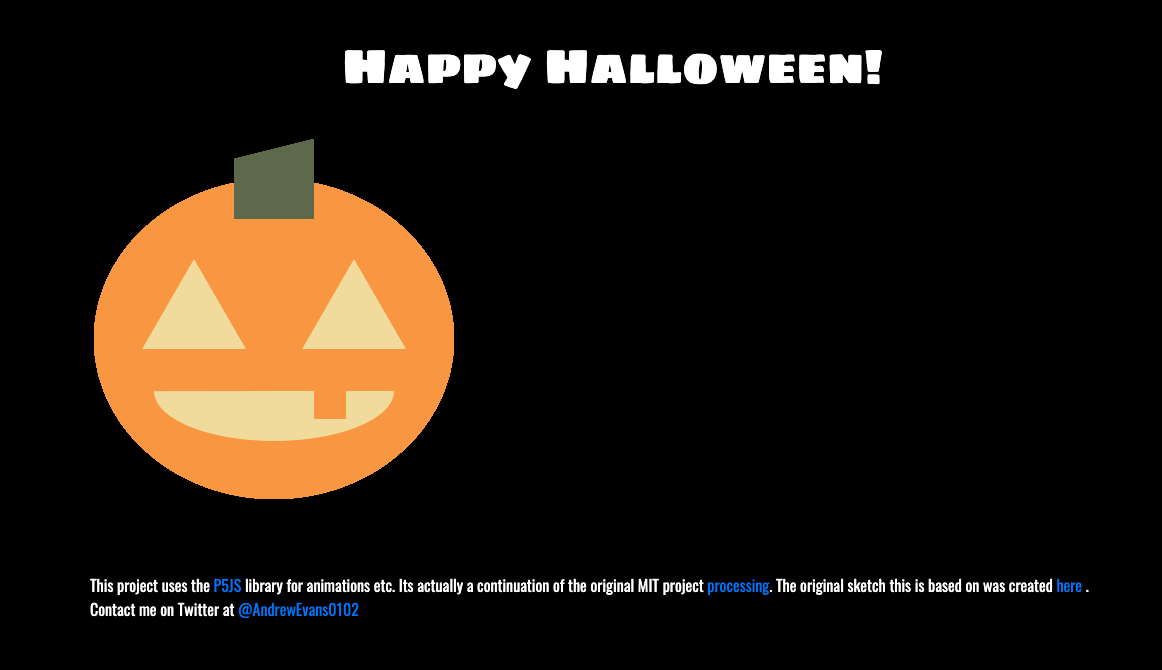
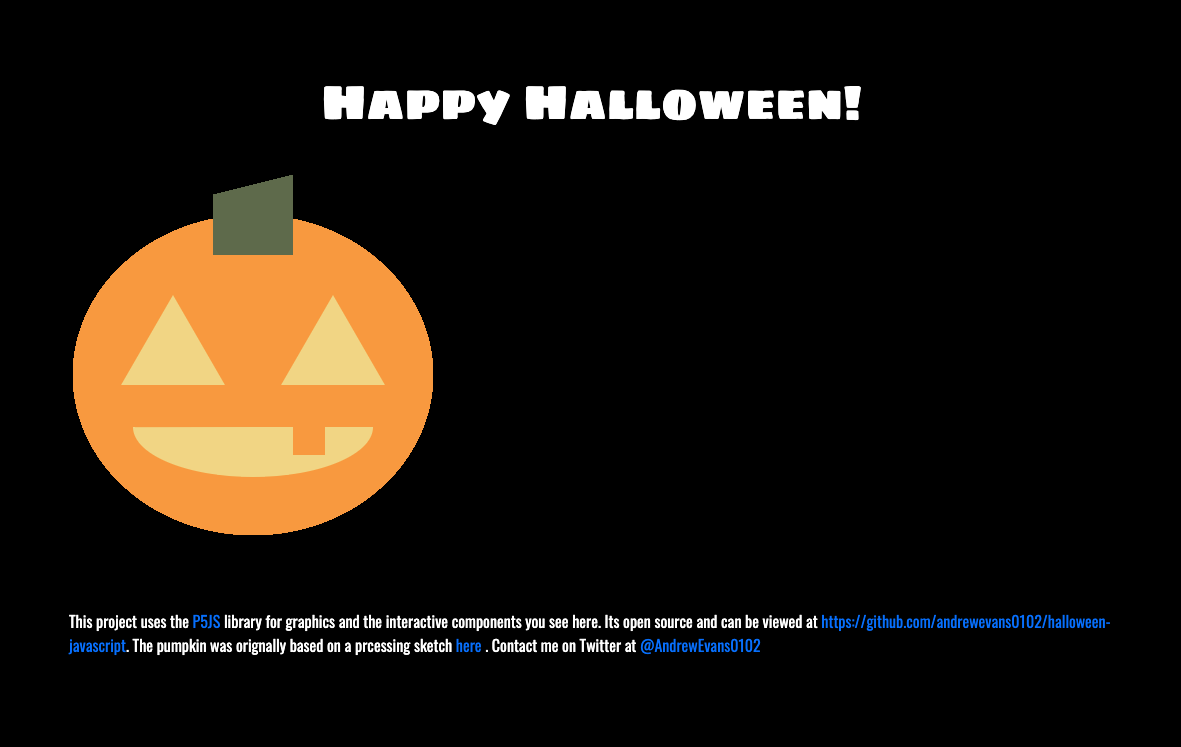
finishing touches for production release

diff --git a/src/app/home-page/home-page.component.html b/src/app/home-page/home-page.component.html
@@ -15,9 +15,11 @@
     <div class="col">
       <p>
         This project uses the <a href="https://p5js.org/">P5JS</a> library for
-        animations etc. Its actually a continuation of the original MIT project
-        <a href="https://processing.org/">processing</a>. The original sketch
-        this is based on was created<a
+        graphics and the interactive components you see here. Its open source
+        and can be viewed at
+        <a href="https://github.com/andrewevans0102/halloween-javascript"
+          >https://github.com/andrewevans0102/halloween-javascript</a
+        >. The pumpkin was orignally based on a prcessing sketch<a
           href="https://www.openprocessing.org/sketch/169302/"
         >
           here </a

diff --git a/README.md b/README.md
@@ -6,7 +6,7 @@
 
 What is this?
 
-This is a project that uses P5JS to show a pumpkin for Halloween! P5JS is a very cool library that lets you do lots of different kinds of media and animations.
+This is an Angular project that uses P5JS to show a pumpkin for Halloween! P5JS is a very cool library that lets you do lots of different kinds of media and animations.
 
 You can see a hosted instance of this application [here](https://halloween-javascript.firebaseapp.com).
 
